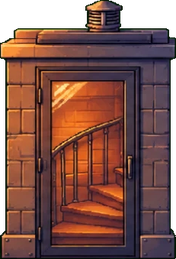
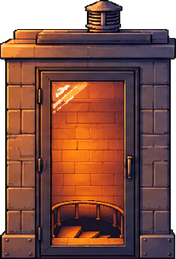
Quiz pictures and the descending stair house
- Four quiz diagrams drawn from art; the pendulum dial turns while the swing
  direction stays fixed
- Keep loaded quiz textures (loading inside _draw freed them before rendering)
- Stair house glass shows stairs going down

Claude-Session: https://claude.ai/code/session_011kdEDmLdS2a4uGbf8UfqNv

diff --git a/tools/backgrounds.py b/tools/backgrounds.py
@@ -30,11 +30,16 @@ SIZES = {
     "ext_right": (260, 220),
     "ground": (258.2, 90.2),       # 땅 단면 (옆으로 이어 붙임)
     "seawall": (60, 120),        # 바닷가 돌 축대
+    "quiz_earth_top": (270, 200),     # '생각해 보기' 퀴즈 그림 (퀴즈 화면 왼쪽 칸 크기)
+    "quiz_earth_shapes": (270, 200),
+    "quiz_ship_shapes": (270, 200),
+    "quiz_dial": (150, 151.2),        # 위에서 본 진자 눈금판 (게임이 천천히 돌림)
+    "quiz_swing": (13, 154.3),        # 진자가 흔들리는 방향 점선과 추 (돌지 않음)
     "far_islands": (500, 125),   # 먼 섬과 등대 (수평선 = 그림 아래에서 FAR_ISLE_BASE)
     "far_sea": (640, 180),       # 바다 (옆으로 이어 붙임, 맨 위 = 수평선)
     "far_clouds": (640, 160),    # 수평선 위 노을 구름 띠 (옆으로 이어 붙임)
     "roof": (256, 110),          # 옥상 바닥·난간 (옆으로 이어 붙임)
-    "roof_stair": (41.8, 61.6),  # 옥상 나선 계단 출구 (계단실)
+    "roof_stair": (42.0, 61.6),  # 옥상 나선 계단 출구 (계단실)
     "roof_deck": (84.7, 38.5),   # 해넘이 전망대 (계단 3칸 높은 데크)
     "roof_chair": (28.9, 20.9),  # 맨눈 관측 의자
     "dome": (182.7, 152.5),      # 돔 (문 포함)
@@ -53,9 +58,12 @@ SIZES = {
 }
 ## 원본에서 잘라 쓸 부분 (왼쪽, 위, 오른쪽, 아래) — 옥상은 난간 기둥 가운데에서 잘라야 이음매가 맞음
 ## 한 원본 그림에서 여러 부품을 잘라 쓸 때: 부품 이름 -> 원본 이름
-SOURCE = {"shelf_half": "secret_shelf", "shelf_open": "secret_shelf","orrery_sun": "orrery_parts", "orrery_earth": "orrery_parts", "orrery_base": "orrery_parts",
+SOURCE = {"quiz_earth_top": "earth_top", "quiz_earth_shapes": "earth_shapes", "quiz_ship_shapes": "ship_shapes",
+          "quiz_dial": "pendulum_floor", "quiz_swing": "pendulum_floor","shelf_half": "secret_shelf", "shelf_open": "secret_shelf","orrery_sun": "orrery_parts", "orrery_earth": "orrery_parts", "orrery_base": "orrery_parts",
           "pend_dial": "pendulum_parts", "pend_bob": "pendulum_parts"}
 CROPS = {
+    "quiz_dial": (38, 90, 651, 707),
+    "quiz_swing": (886, 84, 939, 713),
     "orrery_sun": (148, 324, 496, 672),
     "orrery_earth": (680, 382, 795, 614),
     "orrery_base": (978, 260, 1852, 739),
@@ -65,7 +73,7 @@ CROPS = {
     "yard": (0, 0, 1430, 625),
     "ground": (5, 0, 1425, 496),     # 가장자리의 어두운 테두리선을 잘라야 이음매가 안 보임
     "roof": (10, 0, 1418, 605),
-    "roof_stair": (290, 609, 521, 948),
+    "roof_stair": (17, 15, 254, 363),
     "roof_deck": (631, 736, 1097, 948),
     "roof_chair": (1207, 833, 1366, 948),
     "dome": (497, 110, 1502, 949),
@@ -77,7 +85,7 @@ CROPS = {
 
 
 def build(name):
-    src = next(p for d in ("backgrounds", "views") for p in (ROOT / "art_src" / d).glob(SOURCE.get(name, name) + ".*"))
+    src = next(p for d in ("backgrounds", "views", "quiz") for p in (ROOT / "art_src" / d).glob(SOURCE.get(name, name) + ".*"))
     a = np.array(Image.open(src).convert("RGB")).astype(np.int32)
     r, g, b = a[..., 0], a[..., 1], a[..., 2]
     green = (g > r + 60) & (g > b + 60) & (g > 150)
